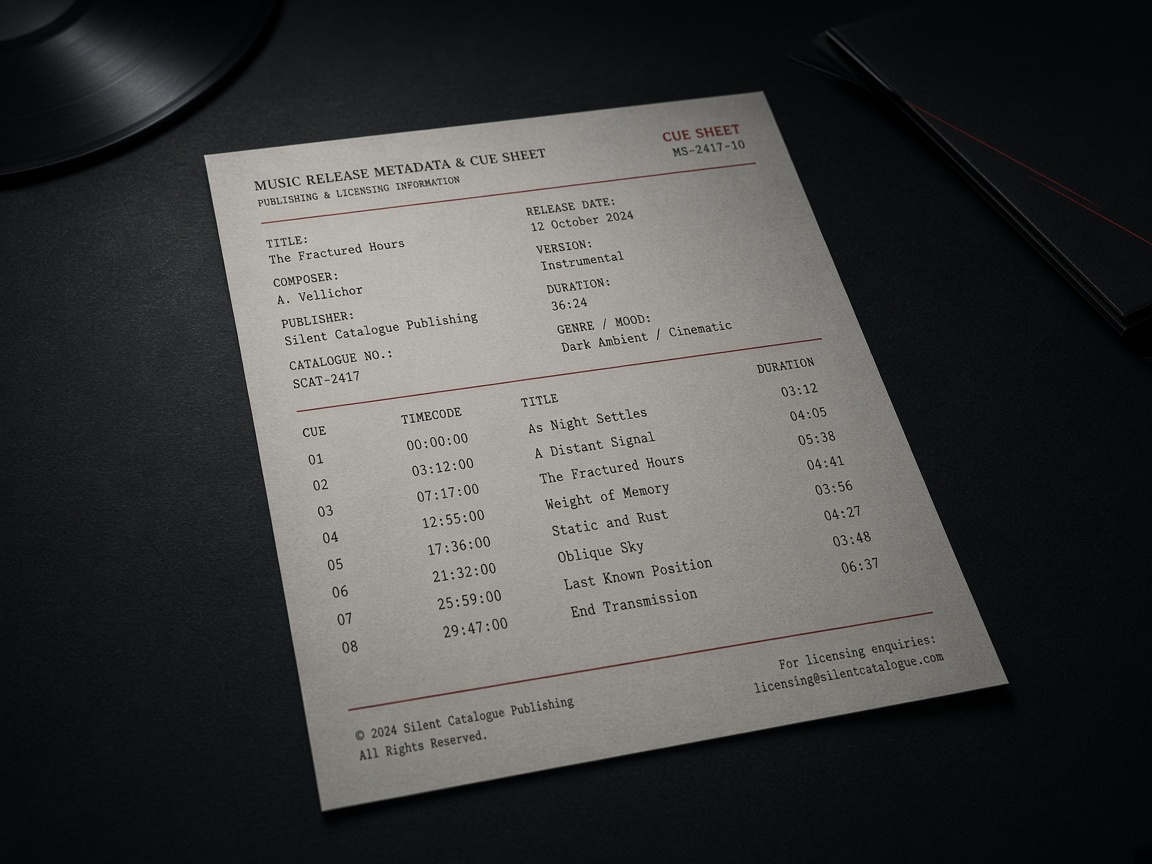
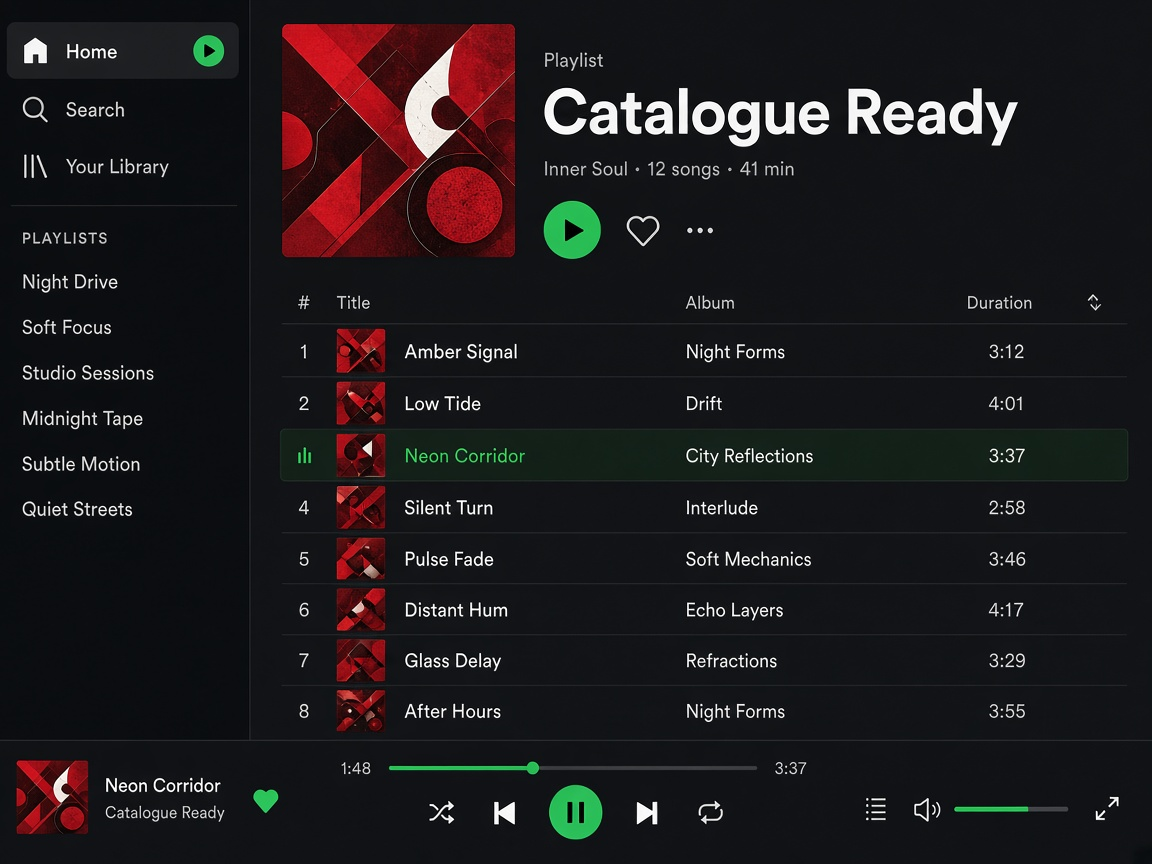
Replace Publish music only image with Spotify-like player mock
Swap the vinyl/metadata sheet for an original dark-mode streaming UI
screenshot (sidebar, playlist header, track list, green accents) and
update the alt text to match.

diff --git a/site/index.html b/site/index.html
@@ -85,7 +85,7 @@
       <div class="playbill-columns">
         <div class="playbill-col">
           <div class="playbill-photo">
-            <img class="playbill-img" src="assets/publishing/publish-music-only.jpg" alt="Release metadata sheet with vinyl — Publish music only" width="1152" height="864" loading="lazy">
+            <img class="playbill-img" src="assets/publishing/publish-music-only.jpg" alt="Spotify-like dark streaming player screenshot — Publish music only" width="1152" height="864" loading="lazy">
           </div>
           <h4>Publish music only</h4>
           <p class="pkg-price">$800</p>
